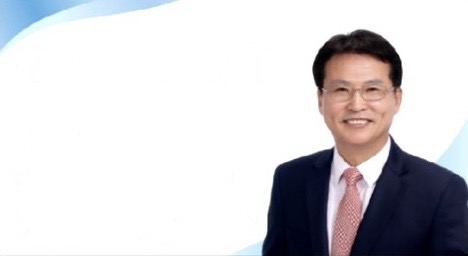
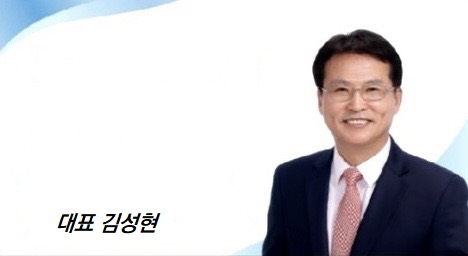
change the CEO photo

Changed region(s): [[0.1197, 0.8125, 0.359, 0.9375]]

diff --git a/introduce.html b/introduce.html
@@ -41,9 +41,6 @@
         <div>
           <div class="introduce__img1">
             <img class="introduce__img" src="/assets/6.jpg" />
-            <div class="img__text">
-              <p>대표이사 김성현</p>
-            </div>
             <div class="introduce__infos">
               <p class="introduce__info">
                 저희 선대엔지니어링을 방문해 주신 분들 반갑습니다.

diff --git a/CSS/screen/introduce.css b/CSS/screen/introduce.css
@@ -31,21 +31,12 @@
 }
 
 .introduce__img1 {
-  position: relative;
   display: flex;
   flex-direction: column;
   align-items: center;
   justify-content: center;
 }
 .introduce__img {
-  width: 800px;
+  width: 50%;
   border-radius: 10px;
-}
-
-.introduce__img1 .img__text {
-  position: absolute;
-  top: 350px;
-  left: 400px;
-  font-size: 30px;
-  font-weight: 700;
 }
